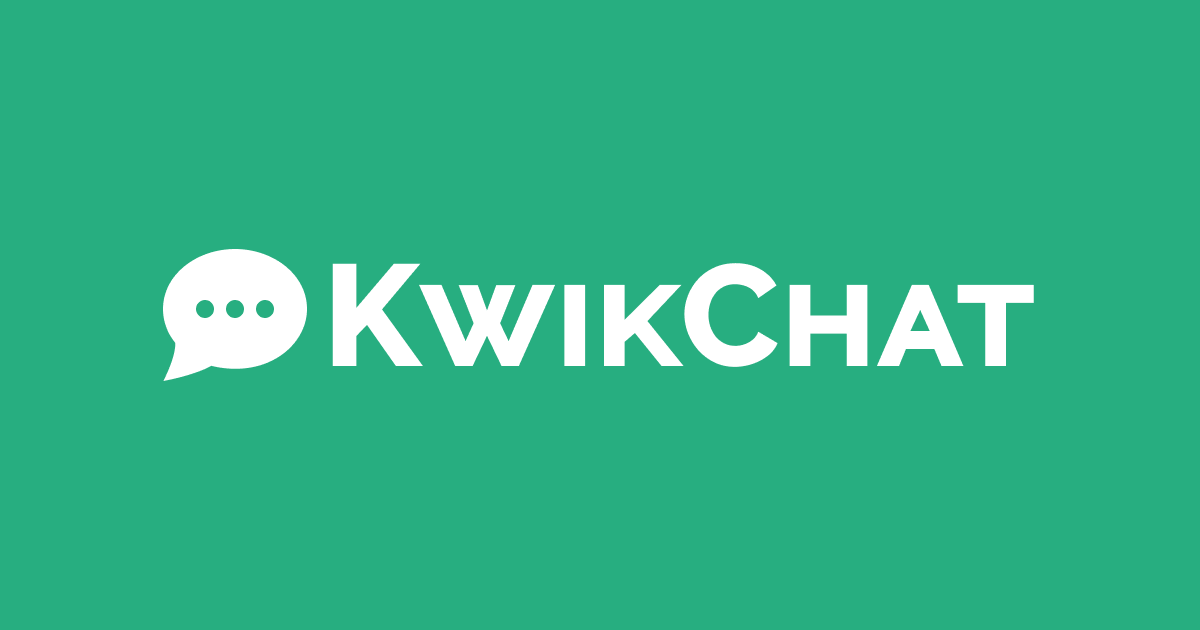
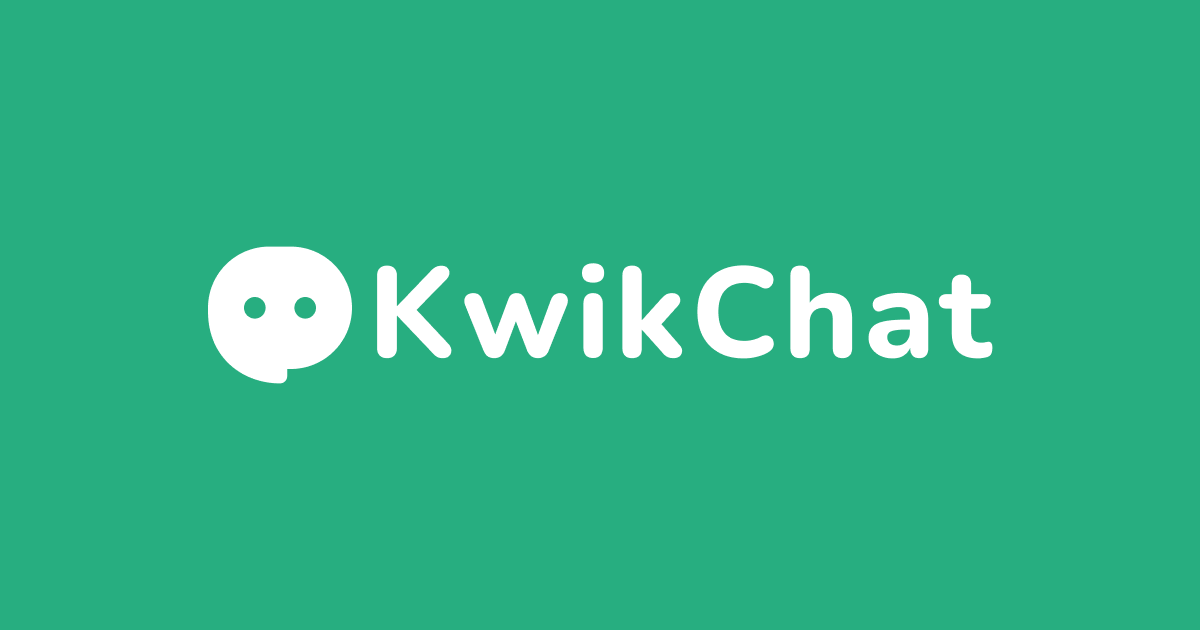
feat(not-found): add global 404 Not Found page

Changed region(s): [[0.1233, 0.3921, 0.8633, 0.6333]]

diff --git a/src/app/not-found.tsx b/src/app/not-found.tsx
@@ -1,0 +1,46 @@
+import type { Metadata } from "next";
+
+import { Home } from "lucide-react";
+import { Button } from "@/components/ui/button";
+import Link from "next/link";
+
+export const metadata: Metadata = {
+	title: "404 Not Found",
+	description:
+		"Lost in cyberspace? The page you're looking for isn't here. It may have been moved, deleted, or never existed. Head back to our homepage",
+};
+
+const GlobalNotFound = () => (
+	<div className="flex min-h-screen items-center px-10 py-10">
+		<div className="flex w-full flex-1 select-none flex-col items-center justify-center text-center">
+			<div className="relative sm:py-6">
+				<h1 className="text-3xl font-extrabold uppercase leading-tight tracking-[4px] text-neutral-900 dark:text-neutral-200 sm:whitespace-nowrap sm:text-5xl sm:leading-none lg:text-7xl">
+					Page Not Found
+				</h1>
+				<div className="absolute -left-5 top-[46px] hidden rounded bg-primary-400 px-2 py-0.5 text-white sm:block lg:-left-8 lg:top-[60px]">
+					<span className="block text-xs font-semibold leading-none tracking-normal lg:text-base lg:leading-none lg:tracking-[2px]">
+						Error 404
+					</span>
+				</div>
+				<span className="absolute -left-7 top-0 hidden h-0.5 w-14 rounded-full bg-neutral-900 dark:bg-neutral-200 sm:-left-10 sm:block sm:w-20" />
+				<span className="absolute -right-7 bottom-0 hidden h-0.5 w-14 rounded-full bg-neutral-900 dark:bg-neutral-200 sm:-right-10 sm:block sm:w-20" />
+			</div>
+			<div className="max-w-lg py-5 sm:py-8">
+				<p className="text-sm font-medium leading-7 text-neutral-900 dark:text-neutral-200 sm:text-base sm:leading-7">
+					The page you were looking for could not be found. It might have been removed, renamed, or
+					did not exist in the first place.
+				</p>
+			</div>
+			<div>
+				<Button asChild className="h-auto space-x-2 px-6 py-3 lg:space-x-3 lg:px-8 lg:py-4">
+					<Link href="/">
+						<Home className="size-4 lg:size-5" />
+						<span className="text-base font-medium lg:text-lg">Back to Home</span>
+					</Link>
+				</Button>
+			</div>
+		</div>
+	</div>
+);
+
+export default GlobalNotFound;

diff --git a/src/app/messenger/(chat-features)/_components/conversation-tile/index.tsx b/src/app/messenger/(chat-features)/_components/conversation-tile/index.tsx
@@ -10,6 +10,8 @@ import RecentMsgPreview from "@/app/messenger/(chat-features)/_components/conver
 
 import useMessengerDialogStore from "@/store/use-messenger-dialog-store";
 
+import { PLACEHOLDER_USER_IMAGE, PLACEHOLDER_GROUP_IMAGE } from "@/constants/media";
+
 import { cn } from "@/utils/general/cn";
 import generateUserAvatarFallback from "@/utils/user/generate-user-avatar-fallback";
 import formatDateBasedOnRecency from "@/utils/general/format-date-based-on-recency";
@@ -45,11 +47,11 @@ const ConversationTile = ({
 
 	const icon = useMemo(() => {
 		if (isGroup) {
-			const src = groupDetails?.icon?.url ?? "/placeholder/group.png";
+			const src = groupDetails?.icon?.url ?? PLACEHOLDER_GROUP_IMAGE;
 			const fallback = groupDetails?.name?.charAt(0).toUpperCase() ?? "?";
 			return { src, fallback };
 		}
-		const src = participant?.avatar ?? "/placeholder/user.png";
+		const src = participant?.avatar ?? PLACEHOLDER_USER_IMAGE;
 		const fallback = participant ? generateUserAvatarFallback({ user: participant }) : "?";
 		return { src, fallback };
 	}, [isGroup, groupDetails?.icon?.url, groupDetails?.name, participant]);

diff --git a/src/app/messenger/(chat-features)/(routes)/chats/[id]/not-found.tsx b/src/app/messenger/(chat-features)/(routes)/chats/[id]/not-found.tsx
@@ -1,0 +1,26 @@
+import { MessageCircleOff } from "lucide-react";
+
+import { WrapperContentZone } from "@/app/messenger/_components/wrapper";
+import { Empty, EmptyIcon, EmptyTitle, EmptyDescription } from "@/components/ui/empty";
+
+const ChatNotFound = () => (
+	<WrapperContentZone>
+		<div className="h-screen overflow-y-auto scrollbar-none">
+			<div className="mb-20 mt-16 bg-transparent p-5 dark:bg-transparent">
+				<div className="pt-20 lg:pt-32 xl:pt-40">
+					<Empty>
+						<EmptyIcon icon={MessageCircleOff} size={64} />
+						<EmptyTitle>Chat Not Found - This Conversation is Missing!</EmptyTitle>
+						<EmptyDescription className="max-w-md">
+							Looks like this chat has disappeared or doesn&apos;t exist. It might have been
+							deleted, or you may have followed an outdated link. Try refreshing or starting a new
+							conversation!
+						</EmptyDescription>
+					</Empty>
+				</div>
+			</div>
+		</div>
+	</WrapperContentZone>
+);
+
+export default ChatNotFound;

diff --git a/src/app/messenger/(chat-features)/_components/group-info.tsx b/src/app/messenger/(chat-features)/_components/group-info.tsx
@@ -7,6 +7,8 @@ import UserAvatar from "@/components/user/user-avatar";
 import useChatInfoStore from "@/store/use-chat-info-store";
 import { useGroupConversationDetailsQuery } from "@/hooks/tanstack-query/use-conversation";
 
+import { PLACEHOLDER_GROUP_IMAGE } from "@/constants/media";
+
 interface GroupInfoProps {
 	conversationId: string;
 }
@@ -39,7 +41,7 @@ const GroupInfo = ({ conversationId }: GroupInfoProps) => {
 			onClick={() => toggleContactInfo("GROUP_DETAILS")}
 			className="flex items-center justify-start space-x-2 border-none bg-transparent p-0 text-left hover:bg-transparent dark:bg-transparent dark:hover:bg-transparent"
 		>
-			<UserAvatar src={icon ?? "/placeholder/group.png"} fallback={name.charAt(0).toUpperCase()} />
+			<UserAvatar src={icon ?? PLACEHOLDER_GROUP_IMAGE} fallback={name.charAt(0).toUpperCase()} />
 			<div className="flex flex-col space-y-1.5">
 				<div title={name} className="max-w-48 truncate text-base font-semibold leading-4">
 					{name}

diff --git a/src/app/messenger/(chat-features)/_components/chat-welcome.tsx b/src/app/messenger/(chat-features)/_components/chat-welcome.tsx
@@ -4,6 +4,7 @@ import Image from "next/image";
 import { PlusIcon } from "lucide-react";
 import { Button } from "@/components/ui/button";
 
+import { CHAT_WELCOME_IMAGE } from "@/constants/media";
 import useMessengerDialogStore from "@/store/use-messenger-dialog-store";
 
 const ChatWelcome = () => {
@@ -12,7 +13,7 @@ const ChatWelcome = () => {
 	return (
 		<div className="flex h-full flex-col items-center justify-center space-y-10">
 			<div className="flex max-w-max items-center justify-center">
-				<Image src="/images/chat-welcome.png" alt="chat-welcome" width={320} height={320} />
+				<Image src={CHAT_WELCOME_IMAGE} alt="chat-welcome" width={320} height={320} />
 			</div>
 			<div className="flex max-w-md flex-col items-center space-y-4 px-5 text-center lg:max-w-lg lg:px-0">
 				<h1 className="heading-3 lg:heading-2">Start a Fresh Vibe or Jump Back In!</h1>

diff --git a/src/app/messenger/(chat-features)/_components/group-insights-card.tsx b/src/app/messenger/(chat-features)/_components/group-insights-card.tsx
@@ -22,6 +22,7 @@ import GroupMembers from "@/app/messenger/(chat-features)/_components/group-memb
 import useGroupMembershipStore from "@/store/use-group-membership-store";
 import useMessengerDialogStore from "@/store/use-messenger-dialog-store";
 
+import { PLACEHOLDER_GROUP_IMAGE } from "@/constants/media";
 import formatJoining from "@/utils/user/format-joining";
 
 interface GroupInsightsCardProps {
@@ -45,7 +46,7 @@ const GroupInsightsCard = ({ overview }: GroupInsightsCardProps) => {
 			<ProfileHeader className="group">
 				<ProfileBanner color={bannerColor} />
 				<ProfileAvatar
-					src={icon ?? "/placeholder/group.png"}
+					src={icon ?? PLACEHOLDER_GROUP_IMAGE}
 					fallback={fallback?.toUpperCase()}
 					status="offline"
 					wrapperClassName="dark:bg-surface-dark-400"

diff --git a/src/app/messenger/_components/desktop-sidebar.tsx b/src/app/messenger/_components/desktop-sidebar.tsx
@@ -7,10 +7,12 @@ import DesktopNav from "@/app/messenger/_components/desktop-nav";
 import ProfilePopup from "@/app/messenger/_components/profile-popup";
 import ThemeToggle from "@/app/messenger/_components/theme-toggle";
 
+import { LOGO_ICON } from "@/constants/media";
+
 const DesktopSidebar = () => (
 	<div className="flex h-full flex-col items-center">
 		<div className="flex size-16 items-center justify-center">
-			<SiteLogo href="/messenger" src="/images/logo-icon.svg" width={28} height={28} />
+			<SiteLogo href="/messenger" src={LOGO_ICON} width={40} height={40} />
 		</div>
 		<nav className="w-full flex-1 py-8">
 			<DesktopNav />

diff --git a/src/constants/media.ts b/src/constants/media.ts
@@ -6,3 +6,14 @@ export const MAX_AVATAR_SIZE = 400 * 1024; // 400 KB
 
 // The maximum allowed size for group icon uploads
 export const MAX_GROUP_ICON_SIZE = 400 * 1024; // 400 KB
+
+// Placeholder images for users and groups
+export const PLACEHOLDER_USER_IMAGE = "/placeholder/user.webp";
+export const PLACEHOLDER_GROUP_IMAGE = "/placeholder/group.webp";
+
+// Logo assets for branding
+export const LOGO_FULL = "/images/logos/full-logo.svg";
+export const LOGO_ICON = "/images/logos/logo-icon.svg";
+
+// Default image shown on the messenger welcome screen
+export const CHAT_WELCOME_IMAGE = "/images/messenger/chat-welcome.webp";

diff --git a/src/components/user/user-avatar.tsx b/src/components/user/user-avatar.tsx
@@ -1,4 +1,5 @@
 import { Avatar, AvatarFallback, AvatarImage } from "@/components/ui/avatar";
+import { PLACEHOLDER_USER_IMAGE } from "@/constants/media";
 import { cn } from "@/utils/general/cn";
 
 export interface UserAvatarProps {
@@ -15,7 +16,7 @@ export interface UserAvatarProps {
 const UserAvatar = ({
 	src,
 	alt,
-	placeholder = "/placeholder/user.png",
+	placeholder = PLACEHOLDER_USER_IMAGE,
 	fallback,
 	status = "offline",
 	className,

diff --git a/src/components/messenger/group-icon.tsx b/src/components/messenger/group-icon.tsx
@@ -1,4 +1,5 @@
 import { Avatar, AvatarFallback, AvatarImage } from "@/components/ui/avatar";
+import { PLACEHOLDER_GROUP_IMAGE } from "@/constants/media";
 import { cn } from "@/utils/general/cn";
 
 export interface GroupIconProps {
@@ -15,7 +16,7 @@ export interface GroupIconProps {
 const GroupIcon = ({
 	src,
 	alt,
-	placeholder = "/placeholder/group.png",
+	placeholder = PLACEHOLDER_GROUP_IMAGE,
 	fallback,
 	className,
 	wrapperClassName,

diff --git a/src/components/site-logo.tsx b/src/components/site-logo.tsx
@@ -1,6 +1,8 @@
 import Link from "next/link";
 import Image from "next/image";
+
 import { cn } from "@/utils/general/cn";
+import { LOGO_FULL } from "@/constants/media";
 
 interface SiteLogoProps {
 	src?: string;
@@ -12,7 +14,7 @@ interface SiteLogoProps {
 }
 
 const SiteLogo: React.FC<SiteLogoProps> = ({
-	src = "/images/logo.svg",
+	src = LOGO_FULL,
 	href = "/",
 	alt = "KwikChat",
 	width = 140,
